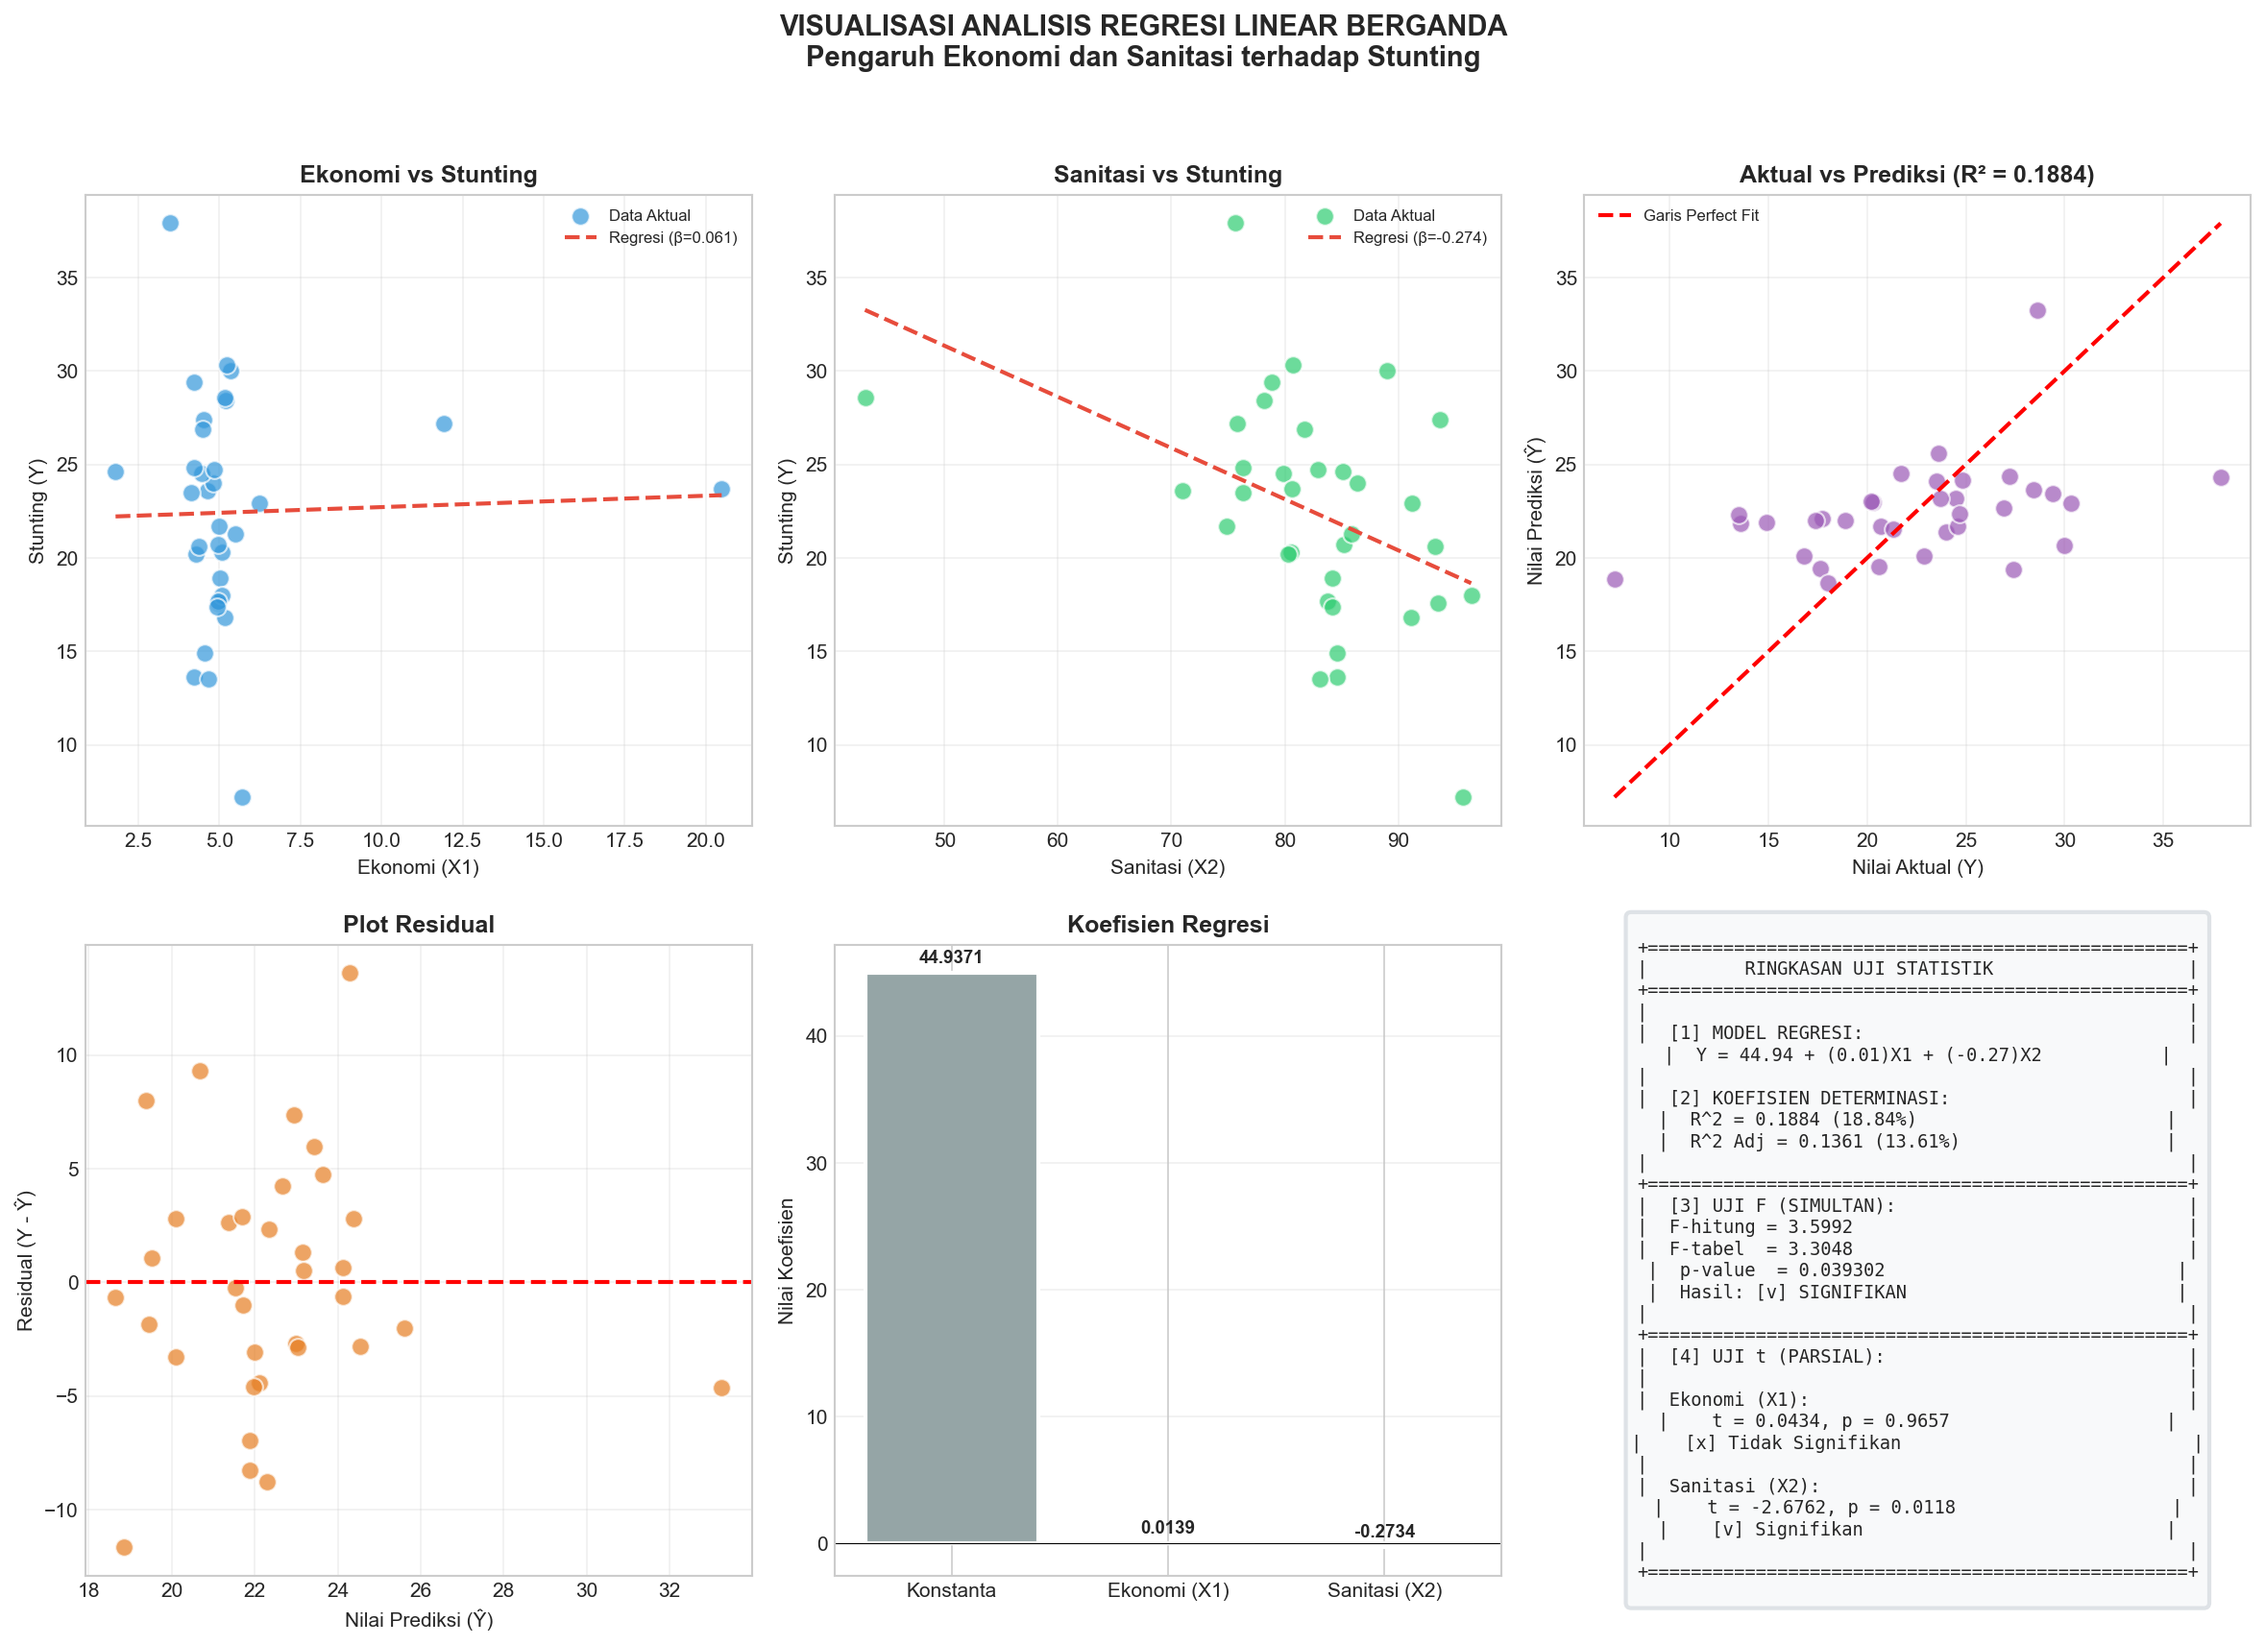
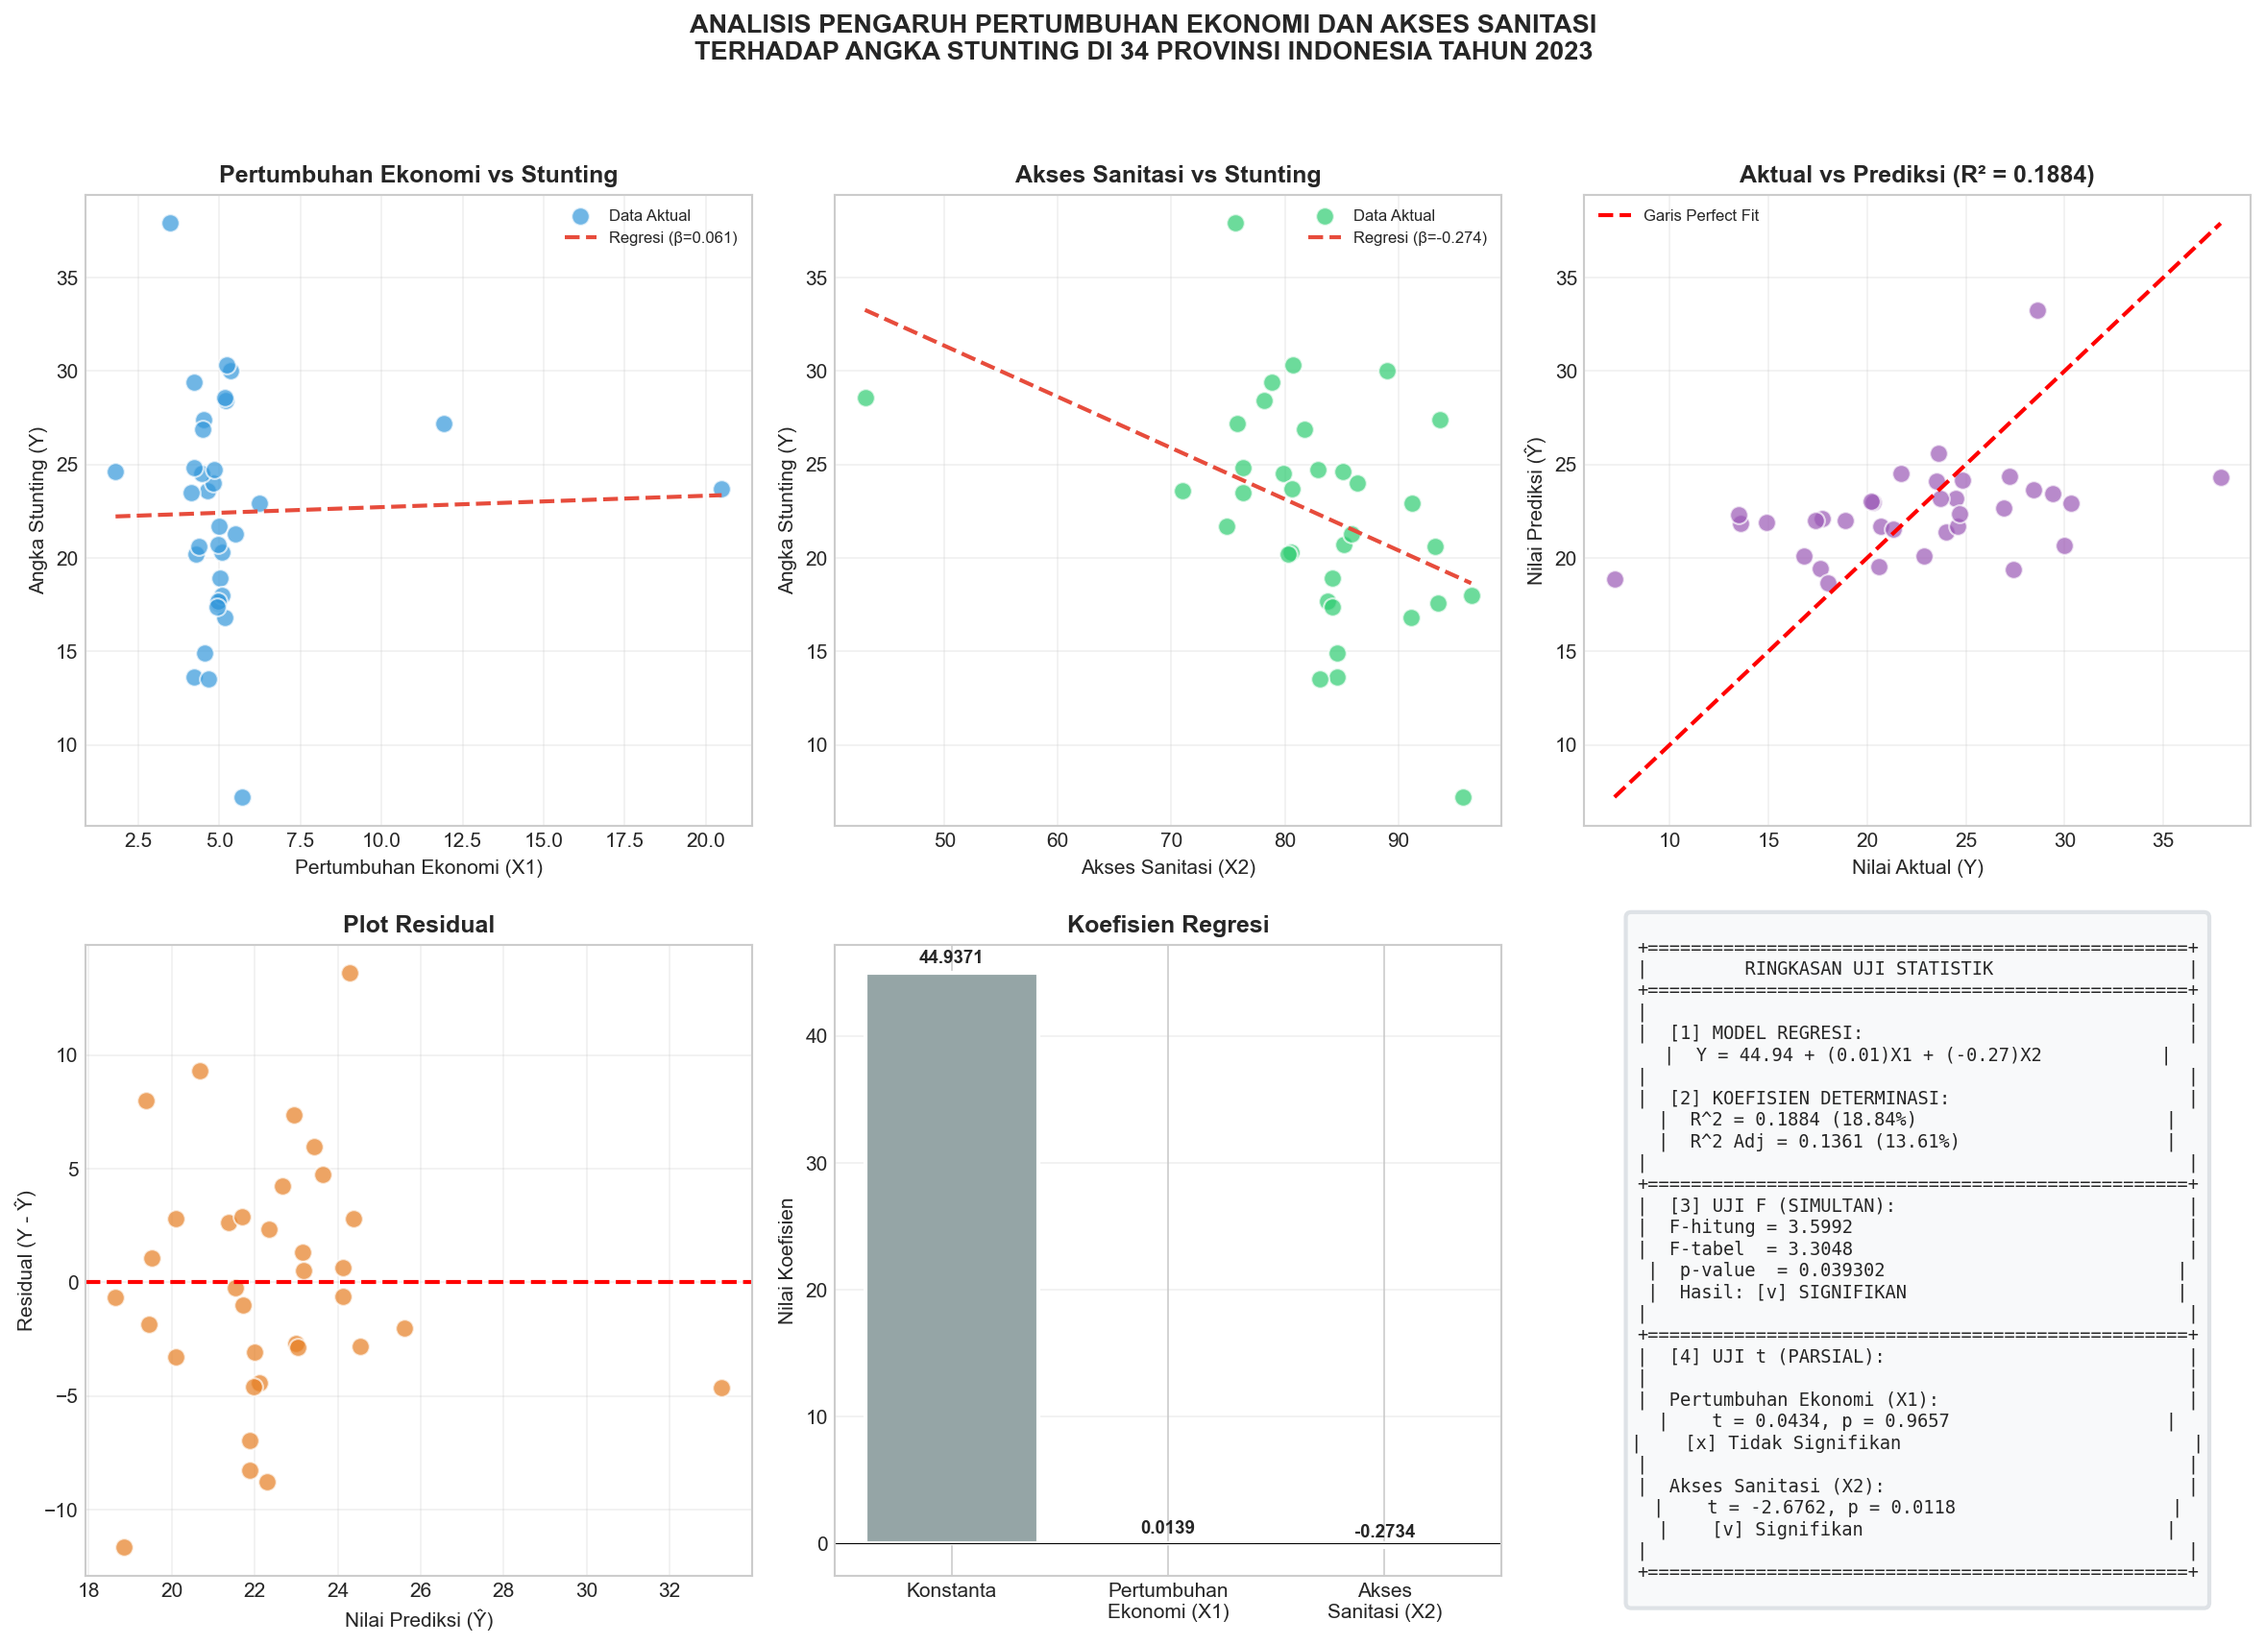
commit

diff --git a/analisis_statistik.py b/analisis_statistik.py
@@ -1,7 +1,10 @@
 """
-Analisis Statistik: Uji Simultan (Uji F) dan Uji Parsial (Uji t)
+ANALISIS PENGARUH PERTUMBUHAN EKONOMI DAN AKSES SANITASI 
+TERHADAP ANGKA STUNTING DI 34 PROVINSI INDONESIA TAHUN 2023
 ================================================================
-Data: Pengaruh Ekonomi (X1), Pendidikan (X2), dan Sanitasi (X3) terhadap Stunting (Y)
+(Tanpa Variabel Tingkat Pendidikan)
+
+Data: Pertumbuhan Ekonomi (X1) dan Akses Sanitasi (X2) terhadap Stunting (Y)
 
 Rumus yang digunakan:
 ---------------------
@@ -203,23 +206,23 @@ def uji_t_parsial(beta, XtX_inv, MSE, n, k):
 # EKSEKUSI ANALISIS
 # ============================================================
 
-print("=" * 70)
-print("ANALISIS REGRESI LINEAR BERGANDA")
-print("Pengaruh Ekonomi dan Sanitasi terhadap Stunting")
-print("(Tanpa Variabel Pendidikan)")
-print("=" * 70)
+print("=" * 80)
+print("ANALISIS PENGARUH PERTUMBUHAN EKONOMI DAN AKSES SANITASI")
+print("TERHADAP ANGKA STUNTING DI 34 PROVINSI INDONESIA TAHUN 2023")
+print("(Tanpa Variabel Tingkat Pendidikan)")
+print("=" * 80)
 
 # 1. Hitung koefisien regresi
 beta, XtX_inv = hitung_koefisien_regresi(X, Y)
 Y_pred = np.dot(X, beta)  # Nilai prediksi
 
 print("\n📊 PERSAMAAN REGRESI:")
-print("-" * 50)
+print("-" * 60)
 print(f"Y = {beta[0]:.4f} + ({beta[1]:.4f})X1 + ({beta[2]:.4f})X2")
 print(f"\nDimana:")
-print(f"  Y  = Stunting")
-print(f"  X1 = Ekonomi  (β1 = {beta[1]:.4f})")
-print(f"  X2 = Sanitasi (β2 = {beta[2]:.4f})")
+print(f"  Y  = Angka Stunting (%)")
+print(f"  X1 = Pertumbuhan Ekonomi  (β1 = {beta[1]:.4f})")
+print(f"  X2 = Akses Sanitasi       (β2 = {beta[2]:.4f})")
 
 # 2. Hitung R²
 R_squared, SST, SSR, SSE = hitung_r_squared(Y, Y_pred)
@@ -229,8 +232,8 @@ print(f"\n📈 KOEFISIEN DETERMINASI:")
 print("-" * 50)
 print(f"R²           = {R_squared:.4f} ({R_squared*100:.2f}%)")
 print(f"R² Adjusted  = {R_squared_adj:.4f} ({R_squared_adj*100:.2f}%)")
-print(f"\nArtinya: {R_squared*100:.2f}% variasi Stunting dapat dijelaskan")
-print(f"oleh variabel Ekonomi dan Sanitasi.")
+print(f"\nArtinya: {R_squared*100:.2f}% variasi Angka Stunting dapat dijelaskan")
+print(f"oleh variabel Pertumbuhan Ekonomi dan Akses Sanitasi.")
 
 # 3. UJI F (SIMULTAN)
 F_hitung, F_tabel, p_value_F, df1, df2, MSR, MSE = uji_f_simultan(R_squared, n, k, SSR, SSE)
@@ -281,18 +284,18 @@ if F_hitung > F_tabel:
     print(f"✅ F-hitung ({F_hitung:.4f}) > F-tabel ({F_tabel:.4f})")
     print(f"✅ p-value ({p_value_F:.6f}) < α (0.05)")
     print(f"\n🎯 KEPUTUSAN: TOLAK H0")
-    print(f"   Artinya: Ekonomi dan Sanitasi secara SIMULTAN")
-    print(f"   berpengaruh signifikan terhadap Stunting.")
+    print(f"   Artinya: Pertumbuhan Ekonomi dan Akses Sanitasi secara SIMULTAN")
+    print(f"   berpengaruh signifikan terhadap Angka Stunting.")
 else:
     print(f"❌ F-hitung ({F_hitung:.4f}) ≤ F-tabel ({F_tabel:.4f})")
     print(f"❌ p-value ({p_value_F:.6f}) ≥ α (0.05)")
     print(f"\n🎯 KEPUTUSAN: GAGAL TOLAK H0")
-    print(f"   Artinya: Ekonomi dan Sanitasi secara SIMULTAN")
-    print(f"   TIDAK berpengaruh signifikan terhadap Stunting.")
+    print(f"   Artinya: Pertumbuhan Ekonomi dan Akses Sanitasi secara SIMULTAN")
+    print(f"   TIDAK berpengaruh signifikan terhadap Angka Stunting.")
 
 # 4. UJI t (PARSIAL)
 t_hitung, t_tabel, p_values_t, SE_beta, df_t = uji_t_parsial(beta, XtX_inv, MSE, n, k)
-var_names = ['Konstanta', 'Ekonomi (X1)', 'Sanitasi (X2)']
+var_names = ['Konstanta', 'Pertumbuhan Ekonomi (X1)', 'Akses Sanitasi (X2)']
 
 print("\n" + "=" * 70)
 print("📋 UJI PARSIAL (UJI t)")
@@ -395,8 +398,8 @@ plt.rcParams['figure.facecolor'] = 'white'
 
 # Buat figure dengan 2x3 subplots
 fig = plt.figure(figsize=(16, 12))
-fig.suptitle('VISUALISASI ANALISIS REGRESI LINEAR BERGANDA\nPengaruh Ekonomi dan Sanitasi terhadap Stunting', 
-             fontsize=14, fontweight='bold', y=0.98)
+fig.suptitle('ANALISIS PENGARUH PERTUMBUHAN EKONOMI DAN AKSES SANITASI\nTERHADAP ANGKA STUNTING DI 34 PROVINSI INDONESIA TAHUN 2023', 
+             fontsize=13, fontweight='bold', y=0.98)
 
 # ============================================================
 # 1. Scatter Plot: Ekonomi vs Stunting
@@ -410,9 +413,9 @@ p1 = np.poly1d(z1)
 x_line = np.linspace(X1.min(), X1.max(), 100)
 ax1.plot(x_line, p1(x_line), color='#e74c3c', linewidth=2, linestyle='--', label=f'Regresi (β={z1[0]:.3f})')
 
-ax1.set_xlabel('Ekonomi (X1)')
-ax1.set_ylabel('Stunting (Y)')
-ax1.set_title('Ekonomi vs Stunting', fontweight='bold')
+ax1.set_xlabel('Pertumbuhan Ekonomi (X1)')
+ax1.set_ylabel('Angka Stunting (Y)')
+ax1.set_title('Pertumbuhan Ekonomi vs Stunting', fontweight='bold')
 ax1.legend(loc='best', fontsize=8)
 ax1.grid(True, alpha=0.3)
 
@@ -428,9 +431,9 @@ p2 = np.poly1d(z2)
 x_line2 = np.linspace(X3.min(), X3.max(), 100)
 ax2.plot(x_line2, p2(x_line2), color='#e74c3c', linewidth=2, linestyle='--', label=f'Regresi (β={z2[0]:.3f})')
 
-ax2.set_xlabel('Sanitasi (X2)')
-ax2.set_ylabel('Stunting (Y)')
-ax2.set_title('Sanitasi vs Stunting', fontweight='bold')
+ax2.set_xlabel('Akses Sanitasi (X2)')
+ax2.set_ylabel('Angka Stunting (Y)')
+ax2.set_title('Akses Sanitasi vs Stunting', fontweight='bold')
 ax2.legend(loc='best', fontsize=8)
 ax2.grid(True, alpha=0.3)
 
@@ -462,7 +465,7 @@ ax4.grid(True, alpha=0.3)
 # 5. Perbandingan Koefisien (Bar Chart)
 # ============================================================
 ax5 = fig.add_subplot(2, 3, 5)
-koef_names = ['Konstanta', 'Ekonomi (X1)', 'Sanitasi (X2)']
+koef_names = ['Konstanta', 'Pertumbuhan\nEkonomi (X1)', 'Akses\nSanitasi (X2)']
 koef_values = beta
 colors = ['#95a5a6', '#3498db', '#2ecc71']
 
@@ -511,11 +514,11 @@ summary_text = f"""
 +==================================================+
 |  [4] UJI t (PARSIAL):                            |
 |                                                  |
-|  Ekonomi (X1):                                   |
+|  Pertumbuhan Ekonomi (X1):                       |
 |    t = {t_hitung[1]:.4f}, p = {p_values_t[1]:.4f}                    |
 |    {'[x] Tidak Signifikan' if p_values_t[1] >= 0.05 else '[v] Signifikan'}                           |
 |                                                  |
-|  Sanitasi (X2):                                  |
+|  Akses Sanitasi (X2):                            |
 |    t = {t_hitung[2]:.4f}, p = {p_values_t[2]:.4f}                    |
 |    {'[x] Tidak Signifikan' if p_values_t[2] >= 0.05 else '[v] Signifikan'}                            |
 |                                                  |
